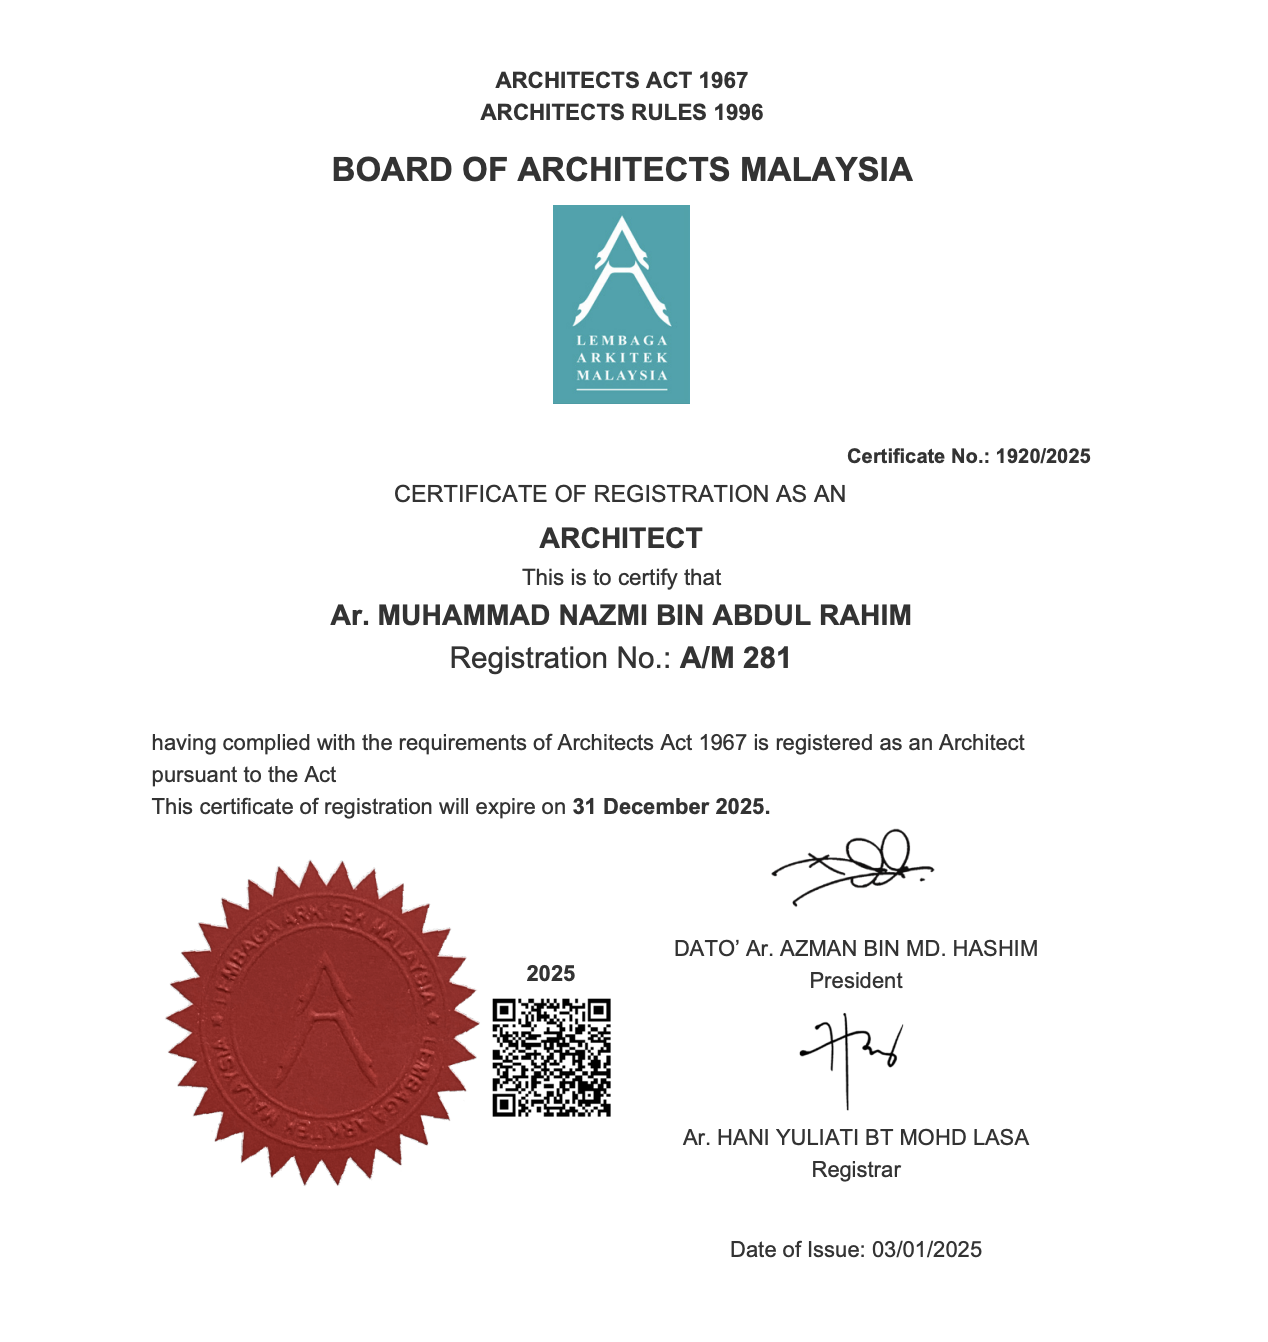
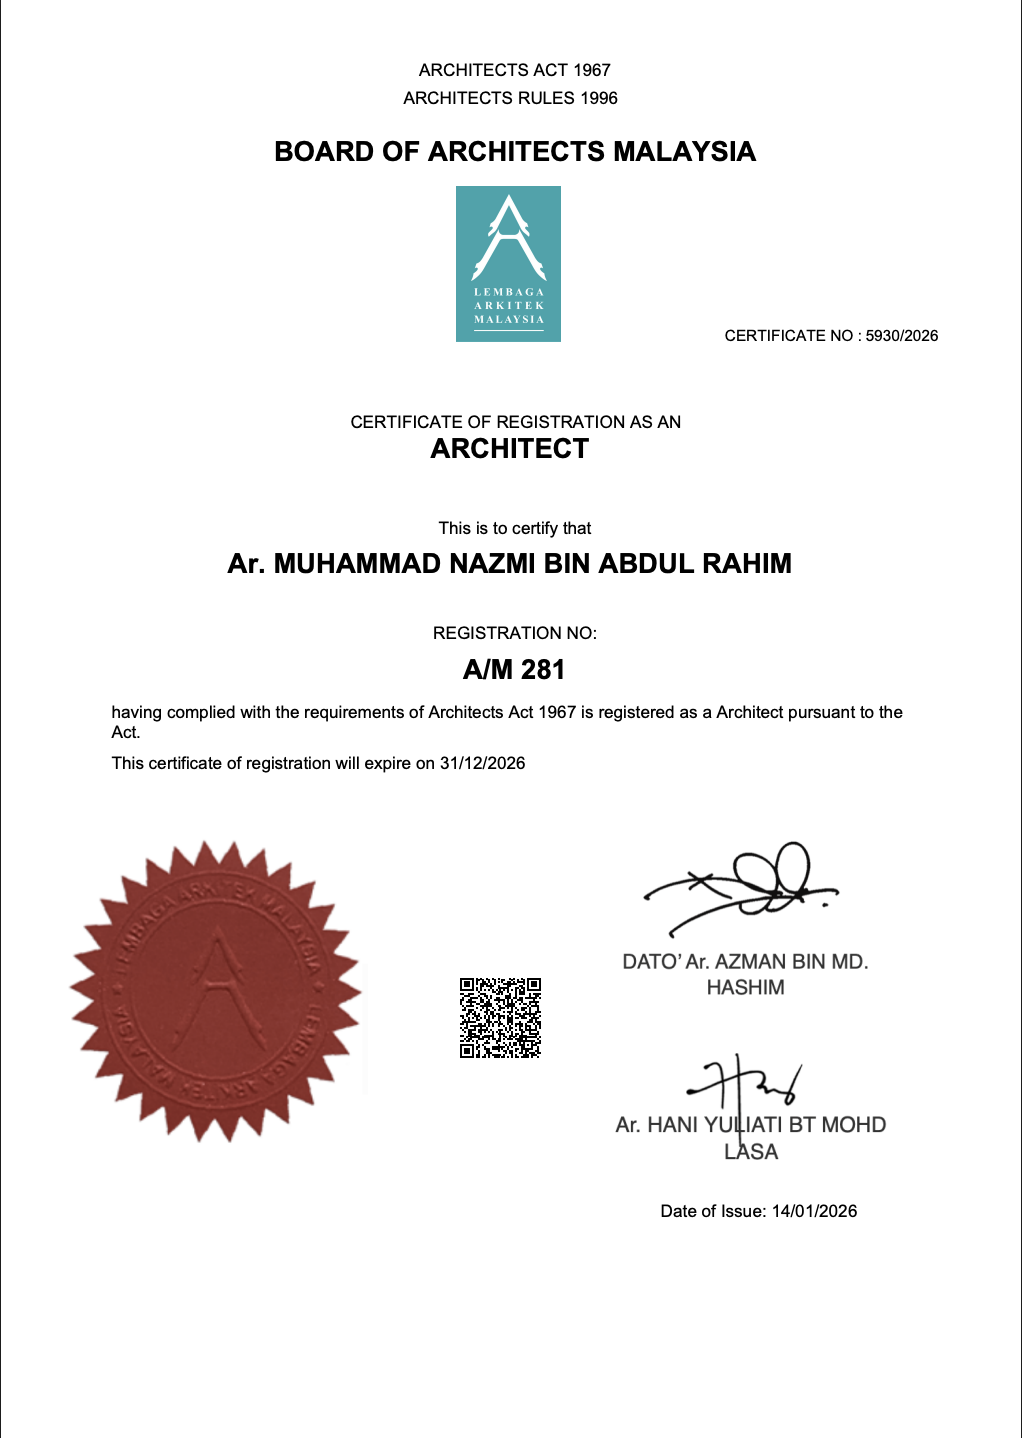
update

Changed region(s): [[0.0607, 0.0306, 0.8796, 0.886], [0.6977, 0.2139, 0.91, 0.2444], [0.5763, 0.9165, 0.7886, 0.9471]]

diff --git a/index.html b/index.html
@@ -200,17 +200,19 @@
                   <figure class="certification-media">
                     <img
                       class="certification-image"
-                      src="assets/cert1.png"
-                      alt="LAM architect registration certificate"
-                      width="1268"
-                      height="1342"
+                      src="assets/cert2.png"
+                      alt="LAM certificate of registration as an Architectural Consultancy Practice: Sole Proprietorship for Muhammad Nazmi Bin Abdul Rahim"
+                      width="1094"
+                      height="1426"
                       loading="lazy"
                     />
                     <figcaption class="certification-meta">
-                      <h3>LAM Architect Registration</h3>
-                      <p>Ar. Muhammad Nazmi Abdul Rahim</p>
-                      <p>Certificate No. 1920/2025</p>
-                      <p>Valid until 31 Dec 2025</p>
+                      <h3>LAM Architectural Consultancy Practice: Sole Proprietorship</h3>
+                      <p>Muhammad Nazmi Bin Abdul Rahim</p>
+                      <p>Certificate No. 5931/2026</p>
+                      <p>Registration No. SP/M 281</p>
+                      <p>Date of Issue: null</p>
+                      <p>Valid until 2026-12-31</p>
                     </figcaption>
                   </figure>
                 </article>
@@ -286,11 +288,11 @@
                 class="cert-thumb is-active"
                 data-cert-index="0"
                 role="tab"
-                aria-label="Show LAM Architect Registration"
+                aria-label="Show LAM Architectural Consultancy Practice: Sole Proprietorship"
                 aria-current="true"
                 aria-selected="true"
               >
-                <img src="assets/cert1.png" alt="" aria-hidden="true" width="1268" height="1342" loading="lazy" />
+                <img src="assets/cert2.png" alt="" aria-hidden="true" width="1094" height="1426" loading="lazy" />
               </button>
               <button
                 type="button"
@@ -537,162 +539,141 @@
                 <article class="team-card team-card--studio">
                   <img
                     class="team-photo"
-                    src="assets/p1.png"
-                    alt="Portrait of Sharifah Akmal Nasuha, Architect"
-                    width="410"
-                    height="430"
+                    src="assets/studio%20people/p1.png"
+                    alt="Portrait of Sharifah Akmal Nasuha, Associates Architect"
+                    width="712"
+                    height="774"
                     loading="lazy"
                   />
-                  <p class="team-role">Architect</p>
+                  <p class="team-role">Associates Architect</p>
                   <h4>Sharifah Akmal Nasuha</h4>
-                  <p class="team-meta">Bach. Sc. Architecture • Bach. Arch (Hons) • LAM AG/S 440</p>
-                  <div class="team-bio is-collapsed" id="team-bio-suha">
-                    <p>
-                      Architect involved in architectural development and project documentation with emphasis on
-                      coordinated design output and statutory submissions.
-                    </p>
-                  </div>
-                  <button class="team-readmore" type="button" data-readmore-target="team-bio-suha" aria-expanded="false">
-                    Read more
-                  </button>
+                  <p class="team-meta">Bach. Sc. Architecture • Bach. Arch (Hons) • LAM: AG/S 440</p>
                 </article>
 
                 <article class="team-card team-card--studio">
                   <img
                     class="team-photo"
-                    src="assets/p2.png"
+                    src="assets/studio%20people/p2.png"
+                    alt="Portrait of Hanis Nazri, Assistant Architect"
+                    width="562"
+                    height="632"
+                    loading="lazy"
+                  />
+                  <p class="team-role">Assistant Architect</p>
+                  <h4>Hanis Nazri</h4>
+                  <p class="team-meta">Bach. Sc. Architecture</p>
+                </article>
+
+                <article class="team-card team-card--studio">
+                  <img
+                    class="team-photo"
+                    src="assets/studio%20people/p3.png"
+                    alt="Portrait of Nur Atiqah Ab. Aziz, Architect"
+                    width="562"
+                    height="680"
+                    loading="lazy"
+                  />
+                  <p class="team-role">Architect</p>
+                  <h4>Nur Atiqah Ab. Aziz</h4>
+                  <p class="team-meta">Bach. Sc. Architecture • Bach. Arch (Hons) • LAM: AG/N00 • PAM: G-1000</p>
+                </article>
+
+                <article class="team-card team-card--studio">
+                  <img
+                    class="team-photo"
+                    src="assets/studio%20people/p4.png"
+                    alt="Portrait of Nur Alya Safiah, Assistant Architect"
+                    width="588"
+                    height="568"
+                    loading="lazy"
+                  />
+                  <p class="team-role">Assistant Architect</p>
+                  <h4>Nur Alya Safiah</h4>
+                  <p class="team-meta">Bach. Sc. Architecture</p>
+                </article>
+
+                <article class="team-card team-card--studio">
+                  <img
+                    class="team-photo"
+                    src="assets/studio%20people/p5.png"
                     alt="Portrait of Farhan Molof, Architect"
-                    width="432"
-                    height="408"
+                    width="692"
+                    height="720"
                     loading="lazy"
                   />
                   <p class="team-role">Architect</p>
                   <h4>Farhan Molof</h4>
-                  <p class="team-meta">Bach. Sc. Architecture • Bach. Arch (Hons) • LAM AG/F 181 • PAM G-3585</p>
-                  <div class="team-bio is-collapsed" id="team-bio-farhan">
-                    <p>
-                      Architect supporting design production, technical detailing, and multidisciplinary coordination
-                      for ongoing project delivery.
-                    </p>
-                  </div>
-                  <button class="team-readmore" type="button" data-readmore-target="team-bio-farhan" aria-expanded="false">
-                    Read more
-                  </button>
+                  <p class="team-meta">Bach. Sc. Architecture • Bach. Arch (Hons) • LAM: AG/F 181 • PAM: G-3585</p>
                 </article>
 
                 <article class="team-card team-card--studio">
                   <img
                     class="team-photo"
-                    src="assets/p3.png"
-                    alt="Portrait of Farah Shahirah Azmi, Assistant Architect"
-                    width="426"
-                    height="426"
-                    loading="lazy"
-                  />
-                  <p class="team-role">Assistant Architect</p>
-                  <h4>Farah Shahirah Azmi</h4>
-                  <p class="team-meta">Bach. Sc. Architecture</p>
-                  <div class="team-bio is-collapsed" id="team-bio-farah">
-                    <p>
-                      Assistant Architect focused on design development, drawing packages, and consultant
-                      coordination support.
-                    </p>
-                  </div>
-                  <button class="team-readmore" type="button" data-readmore-target="team-bio-farah" aria-expanded="false">
-                    Read more
-                  </button>
-                </article>
-
-                <article class="team-card team-card--studio">
-                  <img
-                    class="team-photo"
-                    src="assets/p4.png"
+                    src="assets/studio%20people/p6.png"
                     alt="Portrait of Fais Fitri Abdullah, Assistant Architect"
-                    width="382"
-                    height="370"
+                    width="632"
+                    height="672"
                     loading="lazy"
                   />
                   <p class="team-role">Assistant Architect</p>
                   <h4>Fais Fitri Abdullah</h4>
                   <p class="team-meta">Bach. Sc. Architecture</p>
-                  <div class="team-bio is-collapsed" id="team-bio-fais">
-                    <p>
-                      Assistant Architect supporting project drafting, visual communication, and technical updates
-                      during active design stages.
-                    </p>
-                  </div>
-                  <button class="team-readmore" type="button" data-readmore-target="team-bio-fais" aria-expanded="false">
-                    Read more
-                  </button>
                 </article>
 
                 <article class="team-card team-card--studio">
                   <img
                     class="team-photo"
-                    src="assets/p5.png"
-                    alt="Portrait of Muhammad Shahrul Nizam Ismail, Draughtsperson"
-                    width="416"
-                    height="368"
+                    src="assets/studio%20people/p7.png"
+                    alt="Portrait of Azrul Naim, Technical person"
+                    width="604"
+                    height="600"
                     loading="lazy"
                   />
-                  <p class="team-role">Draughtsperson</p>
-                  <h4>Muhammad Shahrul Nizam Ismail</h4>
-                  <p class="team-meta">Architectural Drafting and Documentation</p>
-                  <div class="team-bio is-collapsed" id="team-bio-shahrul">
-                    <p>
-                      Draughtsperson responsible for detailed drawing production, revisions, and documentation
-                      consistency across project stages.
-                    </p>
-                  </div>
-                  <button class="team-readmore" type="button" data-readmore-target="team-bio-shahrul" aria-expanded="false">
-                    Read more
-                  </button>
-                </article>
-
-                <article class="team-card team-card--studio">
-                  <img
-                    class="team-photo"
-                    src="assets/p6.png"
-                    alt="Portrait of Sakran Fahmi, Architectural Assistant"
-                    width="372"
-                    height="334"
-                    loading="lazy"
-                  />
-                  <p class="team-role">Architectural Assistant</p>
-                  <h4>Sakran Fahmi</h4>
+                  <p class="team-role">Technical person</p>
+                  <h4>Azrul Naim</h4>
                   <p class="team-meta">Dip. Architecture</p>
-                  <div class="team-bio is-collapsed" id="team-bio-sakran">
-                    <p>
-                      Architectural Assistant supporting drafting workflows, model updates, and drawing issue
-                      coordination with the project team.
-                    </p>
-                  </div>
-                  <button class="team-readmore" type="button" data-readmore-target="team-bio-sakran" aria-expanded="false">
-                    Read more
-                  </button>
                 </article>
 
                 <article class="team-card team-card--studio">
                   <img
                     class="team-photo"
-                    src="assets/user.png"
-                    alt="Portrait of Sharifah Aqlima, Office Manager"
-                    width="512"
-                    height="512"
+                    src="assets/studio%20people/p8.png"
+                    alt="Portrait of Nur Syafiqah Liyana, Technical person"
+                    width="566"
+                    height="602"
+                    loading="lazy"
+                  />
+                  <p class="team-role">Technical person</p>
+                  <h4>Nur Syafiqah Liyana</h4>
+                  <p class="team-meta">Dip. Architecture</p>
+                </article>
+
+                <article class="team-card team-card--studio">
+                  <img
+                    class="team-photo"
+                    src="assets/studio%20people/p9.png"
+                    alt="Portrait of Azimah Ariffin, Office Manager"
+                    width="628"
+                    height="732"
                     loading="lazy"
                   />
                   <p class="team-role">Office Manager</p>
-                  <h4>Sharifah Aqlima</h4>
-                  <p class="team-meta">Office Operations and Administration</p>
-                  <div class="team-bio is-collapsed" id="team-bio-aqlima">
-                    <p>
-                      Oversees daily office operations, administration flow, and internal coordination to support
-                      smooth project and client communication.
-                    </p>
-                  </div>
-                  <button class="team-readmore" type="button" data-readmore-target="team-bio-aqlima" aria-expanded="false">
-                    Read more
-                  </button>
+                  <h4>Azimah Ariffin</h4>
+                  <p class="team-meta">Bach. Accounting (Hons)</p>
+                </article>
+
+                <article class="team-card team-card--studio">
+                  <img
+                    class="team-photo"
+                    src="assets/studio%20people/p10.png"
+                    alt="Portrait of Sakran Fahmi, Technical person"
+                    width="682"
+                    height="740"
+                    loading="lazy"
+                  />
+                  <p class="team-role">Technical person</p>
+                  <h4>Sakran Fahmi</h4>
+                  <p class="team-meta">Dip. Architecture</p>
                 </article>
               </div>
               <div class="team-actions">
@@ -1006,14 +987,14 @@
                 referrerpolicy="no-referrer-when-downgrade"
               ></iframe>
             </div>
-            <a
-              class="contact-map-link"
-              href="https://www.google.com/maps/place/56A,+Jalan+Badminton+13%2F29,+Tadisma+Business+Park,+40000+Shah+Alam,+Selangor/@3.0895223,101.5461802,17z/data=!3m1!4b1!4m6!3m5!1s0x31cc4d95e74e95ab:0x9f9a1b"
-              target="_blank"
-              rel="noopener noreferrer"
-            >
-              Open in Google Maps
-            </a>
+              <a
+                class="contact-map-link"
+                href="https://www.google.com/maps?kgmid=/g/11vm6p_p60&amp;hl=en-MY&amp;shem=epsd1,shrtsdl&amp;shndl=30&amp;kgs=c7fe3817bbd7fe81&amp;um=1&amp;ie=UTF-8&amp;fb=1&amp;gl=my&amp;sa=X&amp;geocode=KRnjTg-lU8wxMWDqXK5MLg5p&amp;daddr=56A,+Jalan+Badminton+13/29,+Tadisma+Business+Park,+40000+Shah+Alam,+Selangor"
+                target="_blank"
+                rel="noopener noreferrer"
+              >
+                Open in Google Maps
+              </a>
           </section>
         </div>
       </section>
@@ -1056,7 +1037,7 @@
               <img src="assets/icons/instagram.png" alt="" aria-hidden="true" loading="lazy" />
             </a>
             <a
-              href="https://maps.google.com/?q=56A,+Jalan+Badminton+13/29,+Tadisma+Business+Park,+Seksyen+13,+40100+Shah+Alam,+Selangor"
+              href="https://www.google.com/maps?kgmid=/g/11vm6p_p60&amp;hl=en-MY&amp;shem=epsd1,shrtsdl&amp;shndl=30&amp;kgs=c7fe3817bbd7fe81&amp;um=1&amp;ie=UTF-8&amp;fb=1&amp;gl=my&amp;sa=X&amp;geocode=KRnjTg-lU8wxMWDqXK5MLg5p&amp;daddr=56A,+Jalan+Badminton+13/29,+Tadisma+Business+Park,+40000+Shah+Alam,+Selangor"
               aria-label="Open Map"
               target="_blank"
               rel="noopener noreferrer"
